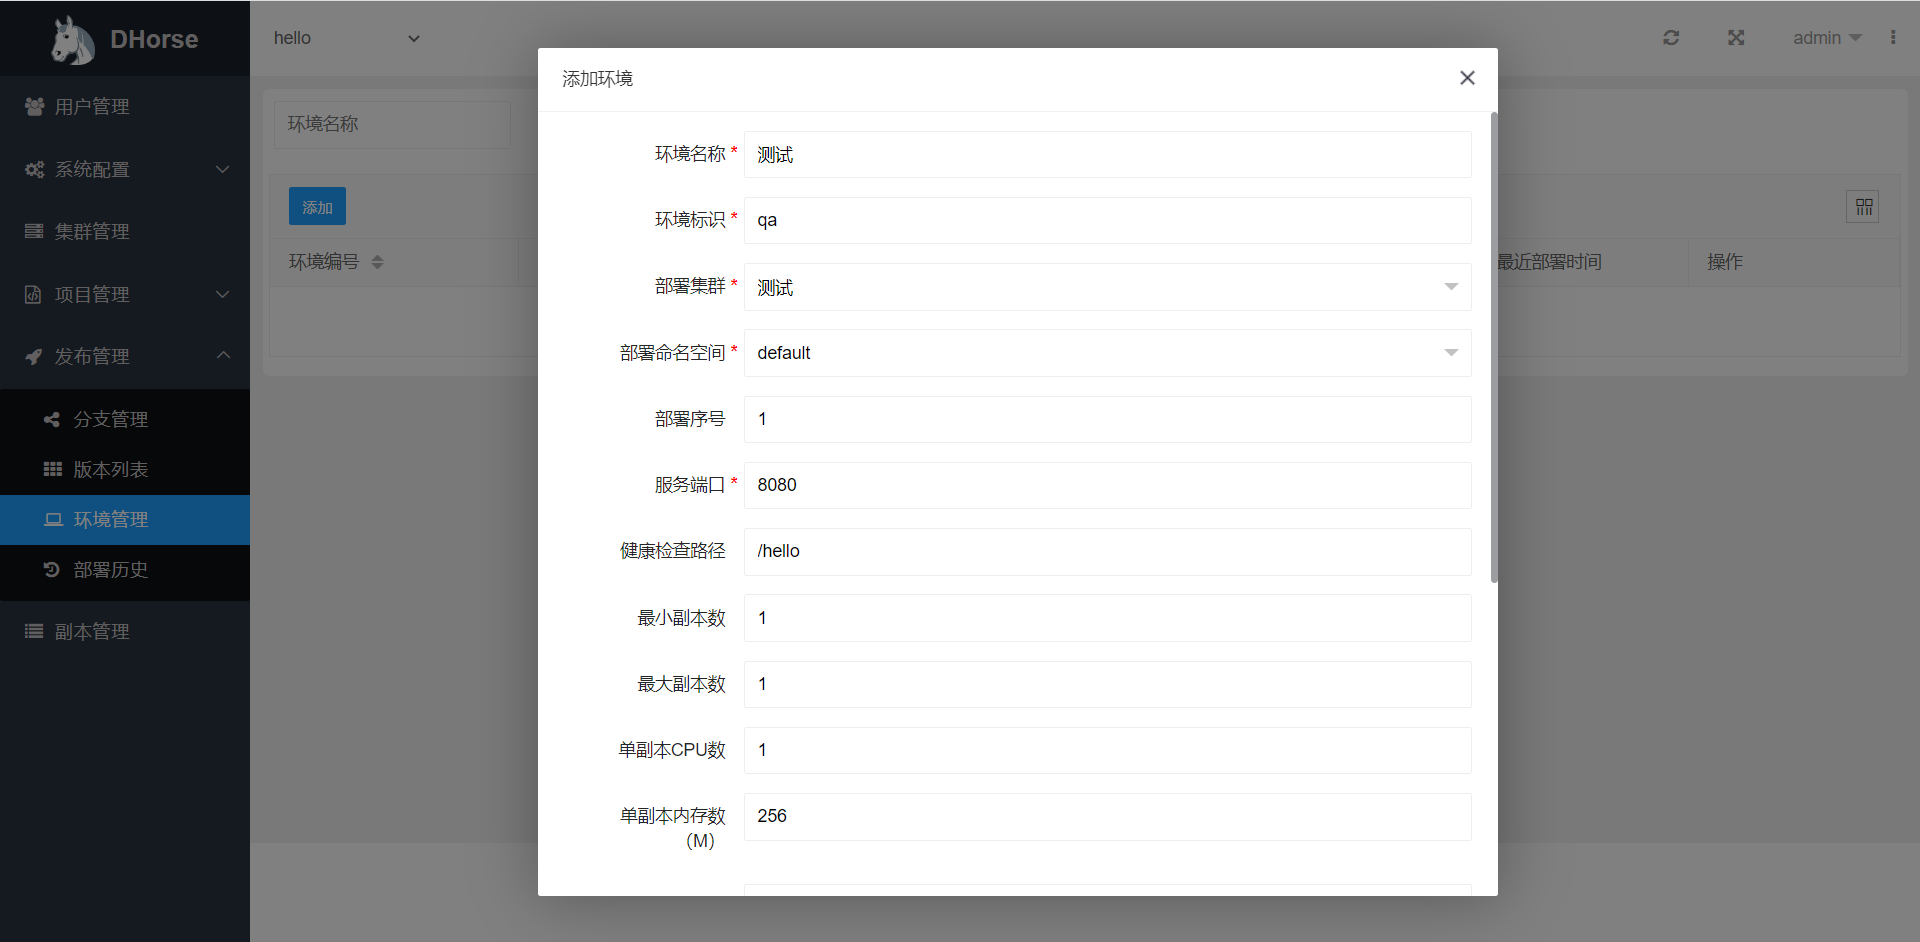
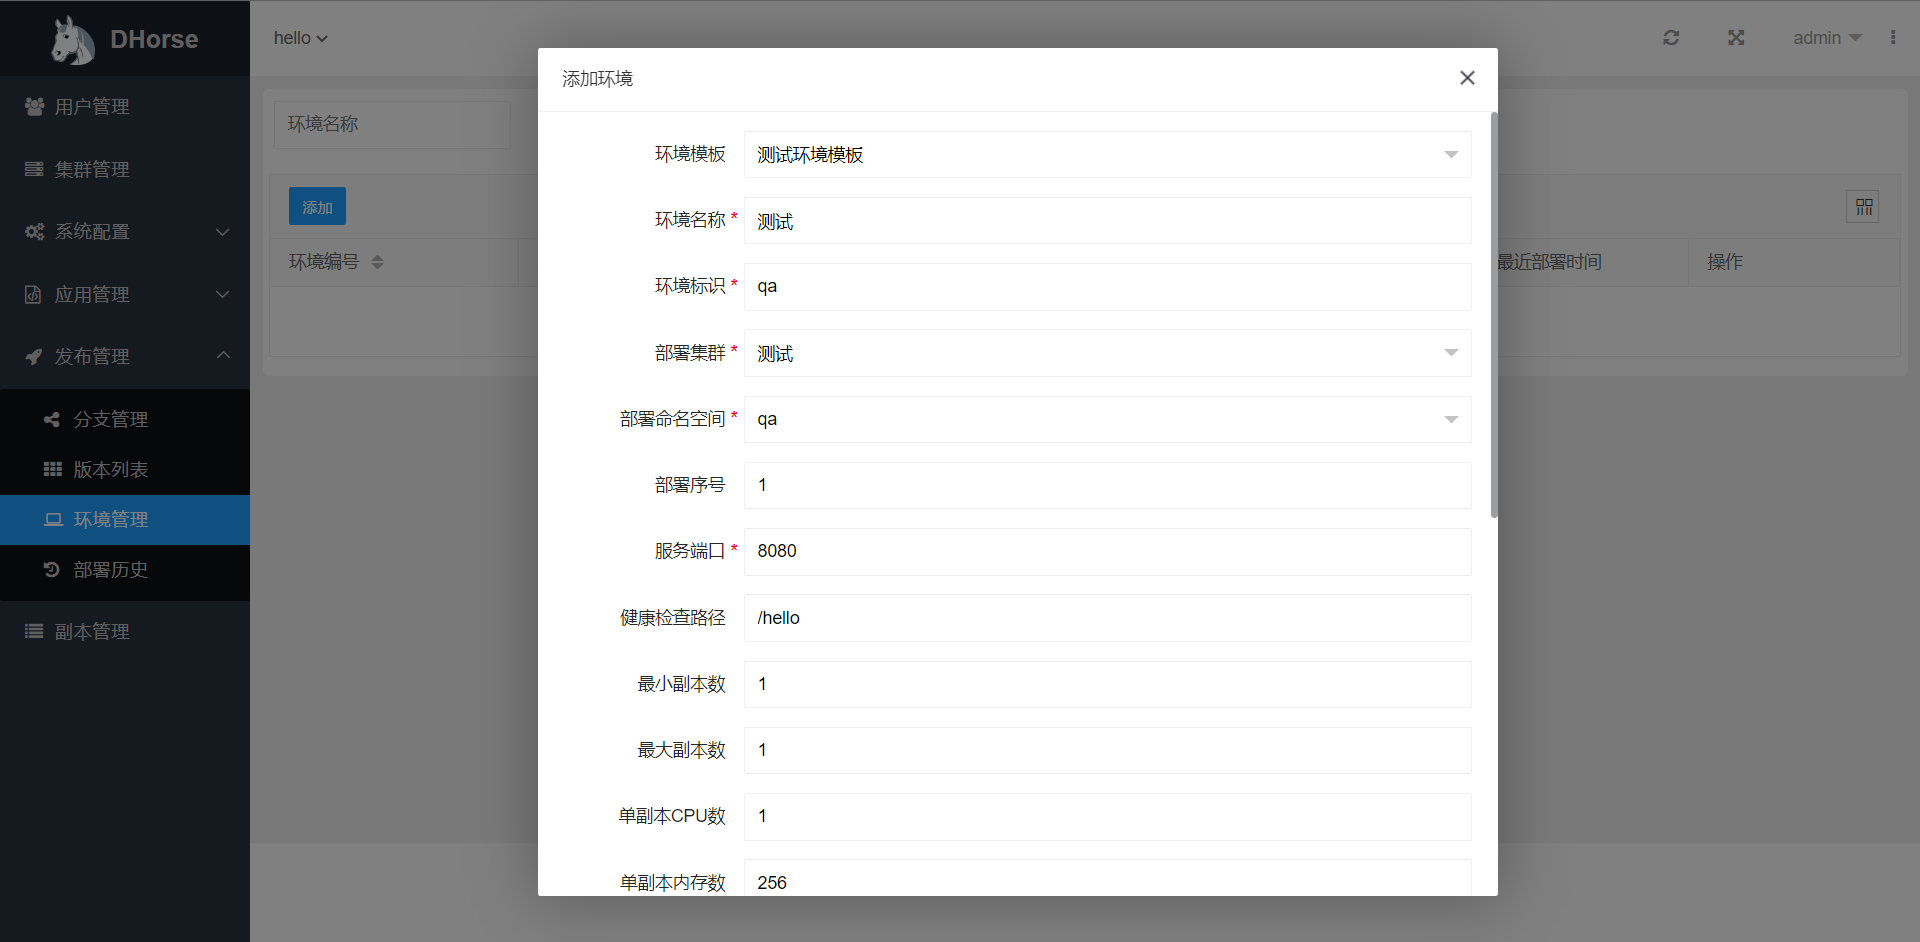
修改描述

diff --git a/guide/操作手册.md b/guide/操作手册.md
@@ -1,6 +1,6 @@
 # 前言
 
-在介绍DHorse的操作之前，先来看一下应用发布的步骤都是有哪些，我们以一个Springboot应用为例来进行说明。
+在介绍DHorse的操作之前，先来看一下应用发布的步骤都是有哪些，以一个Springboot应用为例来进行说明。
 
 1.首先从代码仓库下载代码，比如Gitlab；  
 2.接着是进行打包，比如使用[Maven](https://blog.csdn.net/huashetianzu/article/details/127481538)；  
@@ -38,7 +38,7 @@
 ![Image text](./image/add_cluster.png)
 图4
 
-我们可以通过如下方式生成k8s的认证令牌：
+可以通过如下方式生成k8s的认证令牌：
 
 1. 小于1.24版本
 
@@ -56,14 +56,15 @@ kubectl create serviceaccount dhorse-admin -n kube-system
 kubectl create clusterrolebinding dhorse-cluster-admin --clusterrole=cluster-admin --serviceaccount=kube-system:dhorse-admin
 kubectl create token dhorse-admin -n kube-system
 ```
-
 也可以开启日志收集功能，但是首先需要在Dhorse的安装目录下修改conf/filebeat-k8s.yml文件，进行filebeat的配置，可以参考[这里](https://github.com/tiandizhiguai/dhorse-doc/blob/main/guide/%E6%97%A5%E5%BF%97%E6%94%B6%E9%9B%86.md)。
+
 在“集群管理”菜单下，同时也提供了对命名空间管理的功能，如图5所示：
 ![Image text](./image/namespace_list.png)
 图5
 
-可以创建和删除命名空间。
-完成以上配置以后，接下来我们就可以创建应用、创建版本、创建环境，然后进行发布了。
+在这里可以创建和删除命名空间。
+
+完成以上配置以后，接下来就可以创建应用、创建版本、创建环境，然后进行发布了。
 
 ## 创建应用
 
@@ -82,7 +83,7 @@ kubectl create token dhorse-admin -n kube-system
 ![Image text](./image/branch_list.png)
 图9
 
-可以看出，在分支列表里可以分别对每个分支进行“构建版本”操作，我们以master分支构建为例，如图10所示：
+可以看出，在分支列表里可以分别对每个分支进行“构建版本”操作，以master分支构建为例，如图10所示：
 ![Image text](./image/build_version.png)
 图10
 
@@ -90,19 +91,20 @@ kubectl create token dhorse-admin -n kube-system
 ![Image text](./image/version_log.png)
 图11
 
-接下来，我们就可以创建一个环境，然后使用刚才构建的版本发布该环境。
+接下来，就可以创建一个环境，然后使用刚才构建的版本发布该环境。
 
 ## 发布应用
 
 进入“环境管理”菜单，然后进行添加环境操作，如图12所示：
 ![Image text](./image/add_env.png)
 图12
+其中，“环境模板”选项的值可以在“系统配置-环境模板”菜单下进行配置。
 
 保存之后，“环境管理”列表里会出现一条环境记录，如果13所示：
 ![Image text](./image/env_list.png)
 图13
 
-接着，我们可以在“操作”列点击“部署”按钮，如图14所示：
+接着，可以在“操作”列点击“部署”按钮，如图14所示：
 ![Image text](./image/deployment.png)
 图14
 
@@ -114,7 +116,7 @@ kubectl create token dhorse-admin -n kube-system
 ![Image text](./image/replica_list.png)
 图16
 
-至此，一个完整的发布流程完成了。那么该如何访问hello应用的服务呢？
+至此，一个完整的发布流程完成了。最后，再来看看如何访问hello应用的服务。
 
 ## 访问服务
 
@@ -124,7 +126,7 @@ kubectl create token dhorse-admin -n kube-system
 
 1. 访问单个副本的服务
 
-通过“副本IP:端口”进行访问，该方式在副本或Node节点都可以访问通，如图16所示的IP，访问示例：http://10.32.1.153:8080/hello
+可以通过“副本IP:端口”进行访问，该方式在副本或Node节点都可以访问通，如图16所示的IP，访问示例：http://10.32.1.153:8080/hello
 
 2. 通过负载均衡
 

diff --git a/guide/链路追踪.md b/guide/链路追踪.md
@@ -10,7 +10,7 @@
 ![Image text](./image/add_trace_template.png)
 图2
 
-其中，“服务地址”是SkyWalking服务器的地址，Agent镜像来源选项有两个：版本号和自定义。如果选择了版本号，则在保存模板之后，DHorse会自动制作“Agent版本”项对应版本号的镜像文件，并自动上传到镜像仓库；如果选择了自定义，那么需要使用者手动制作Agent镜像并上传到仓库。对于手动制作的Agent镜像，DHorse是有规则要求的，下面就详细介绍。
+其中，“服务地址”是SkyWalking服务器的地址，Agent镜像来源选项有两个：版本号和自定义。如果选择了版本号，则在保存模板之后，DHorse会自动制作“Agent版本”项对应版本号的镜像文件，并自动上传到镜像仓库；如果选择了自定义，那么需要手动制作Agent镜像并上传到仓库。下面介绍如何手动制作Agent镜像。
 
 ## 制作Agent镜像
 
@@ -58,10 +58,11 @@ docker push 192.168.109.131:20080/dhorse/skywalking-agent:v8.9.0
 
 ## 使用链路追踪
 
-在“环境管理”菜单下，进行修改操作，开启链路追踪状态和选择链路追踪模板，如图3所示：
+在“环境管理”菜单下，进行修改环境，开启链路追踪状态和选择链路追踪模板，如图3所示：
 ![Image text](./image/env_trace.png)
 图3
 
-保存之后，重新发布该环境的应用，然后请求该环境的服务。打开SkyWalking Web，在Trace的菜单下可以看到上报的链路信息，如图4所示：
+保存之后，重新发布该环境，然后请求副本的服务，如：curl http://10.20.31.34:8080/hello，其中10.20.31.34是副本的IP。
+最后，打开SkyWalking Web，在Trace的菜单下可以看到上报的链路信息，如图4所示：
 ![Image text](./image/trace_info.png)
 图4
